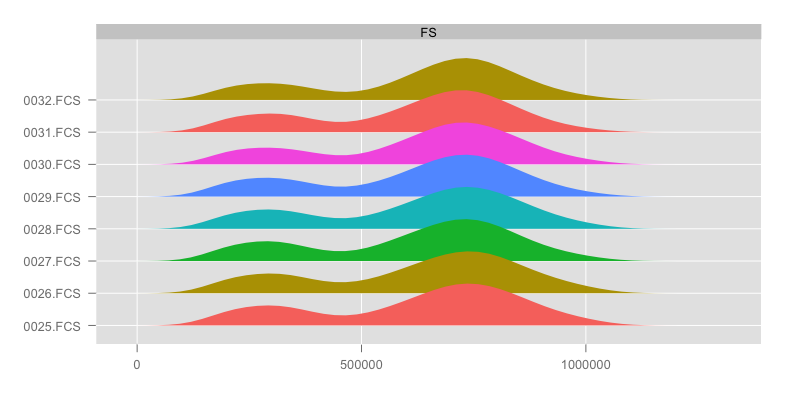
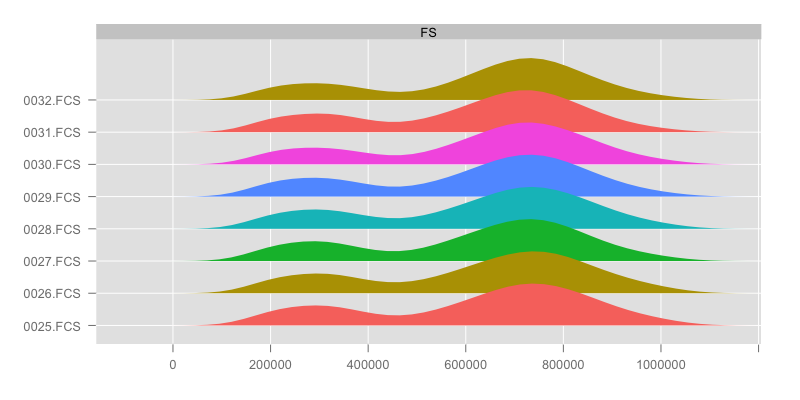
Ajouter des explications pour l'exploration des données

diff --git a/README.md b/README.md
@@ -593,7 +593,8 @@ Vérifiez que vous avez bel et bien la dernière version de R à partir de la co
 Vous pouvez obtenir la dernière version de R ici: https://www.r-project.org/
 
 #### Installation de Bioconductor
-Pour accéder aux librairies de cytométrie en flux, il faut d'abord installer Bioconductor.
+Pour accéder aux librairies de cytométrie en flux, il faut d'abord installer Bioconductor. Pour plus d'infos, voir: https://www.bioconductor.org/install/
+
 Dans la console de R, tappez:
 
 `> setRepositories()`
@@ -607,10 +608,14 @@ Vous pouvez maintenant accéder aux librairies de Bioconductor (sauf flowQ qui n
 à partir de R ou de RStudio!
 
 #### Installation de flowStats
+Voir la documentation: https://www.bioconductor.org/packages/release/bioc/html/flowStats.html
+
 flowStats peut vous donner de la misère avec rgl (un dependency) si votre version de X11 n'est pas à jour.
 Vous pouvez télécharger la dernière vesion de X11 pour Mac ici: http://www.xquartz.org/
 
 #### Installation de flowQ
+Voir la documentation: https://www.bioconductor.org/packages/release/bioc/html/flowQ.html
+
 Attention! flowQ dépend de ImageMagick, que vous pouvez installer à partir des binaries suivants:
 * Mac: http://www.imagemagick.org/script/binary-releases.php#macosx
 * Win: http://www.imagemagick.org/script/binary-releases.php#windows
@@ -634,6 +639,13 @@ une erreur, ImageMagick n'est pas bien installé.
 
 Sur Windows, bonne chance!
 
+#### À propos des autres librairies de base
+Consultez la documentation officielle pour les autres librairies de base pour la cytométrie en flux:
+* [flowCore](http://bioconductor.org/packages/release/bioc/html/flowCore.html) (permet la manipulation de données de cytométrie en flux)
+* [flowViz](http://bioconductor.org/packages/release/bioc/html/flowViz.html) (permet la visualisation des données de flowCore)
+* [flowClust](http://bioconductor.org/packages/release/bioc/html/flowClust.html) (permet le clustering des données de flowCore)
+* [openCyto](http://bioconductor.org/packages/release/bioc/html/openCyto.html) (framework d'analyses automatisées, qui fonctionne avec toutes les autres librairies)
+
 #### Visualisation
 
 ```
@@ -647,7 +659,7 @@ library(ggplot2)
 
 setwd(file.path(PROJHOME, "data"))
 
-# Fetch data
+# Choisir les fichiers .FCS qu'on veut analyser et mettre leur path dans un vecteur de strings
 pt4_fclist <- c("4 Normal/0025.FCS",
                 "4 Normal/0026.FCS",
                 "4 Normal/0027.FCS",
@@ -656,9 +668,9 @@ pt4_fclist <- c("4 Normal/0025.FCS",
                 "4 Normal/0030.FCS",
                 "4 Normal/0031.FCS",
                 "4 Normal/0032.FCS")
-pt5_fclist <- c("5 AML/0033.FCS",
-                "5 AML/0034.FCS",
-                "5 AML/0035.FCS",
+pt5_fclist <- c("5 AML/0033.FCS",      # OK bon oui ici on triche parce qu'on sait quels patients sont
+                "5 AML/0034.FCS",      # en santé et lesquels ont reçu un diagnostique de AML, mais la
+                "5 AML/0035.FCS",      # démo reste intéressante!
                 "5 AML/0036.FCS",
                 "5 AML/0037.FCS",
                 "5 AML/0038.FCS",
@@ -668,19 +680,189 @@ pt5_fclist <- c("5 AML/0033.FCS",
 # À l'aide de la librairie flowCore, générer des objets de type 'flowSet' à partir des données brutes
 pt4_fs <- read.flowSet(pt4_fclist, dataset=2, transformation=FALSE, alter.names=TRUE)
 pt5_fs <- read.flowSet(pt5_fclist, dataset=2, transformation=FALSE, alter.names=TRUE)
+```
 
+Le format .FCS définit une manière standard de représenter les données, mais la structure précise des données de cytométrie en flux varie d'un appareil à un autre (par exemple certains appareils appellent le FSC 'FS' et le SSC 'SS' et les appareils n'ont pas toujours les mêmes détecteurs de fluorescence).
+
+On peut donc vérifier avec la console à quoi ressemblent nos données:
+
+```
+> pt4_fs
+
+A flowSet with 8 experiments.
+
+  column names:
+  FS SS FL1 FL2 FL3 FL4 FL5 TIME
+
+> pt4_fs[1]
+
+A flowSet with 1 experiments.
+
+  column names:
+  FS SS FL1 FL2 FL3 FL4 FL5 TIME
+
+> pt4_fs[[1]]
+
+flowFrame object '0025.FCS'
+with 30000 cells and 8 observables:
+    name desc   range minRange maxRange
+$P1   FS <NA> 1048576        0  1048575
+$P2   SS <NA> 1048576        0  1048575
+$P3  FL1 <NA> 1048576        0  1048575
+$P4  FL2 <NA> 1048576        0  1048575
+$P5  FL3 <NA> 1048576        0  1048575
+$P6  FL4 <NA> 1048576        0  1048575
+$P7  FL5 <NA> 1048576        0  1048575
+$P8 TIME <NA>    1024        0     1023
+61 keywords are stored in the 'description' slot
+
+> # Le minRange est de 0... Allons voir la valeur minimale réelle, pour le FS par exemple.
+> head(sort(as.numeric(exprs(pt4_fs[[1]][,1])[,1])), 1)
+
+[1] 152224
+
+> # Le maxRange est de 1048575... Allons voir quelle est la valeur maximale réelle, pour le FS par exemple.
+> tail(sort(as.numeric(exprs(pt4_fs[[1]][,1])[,1])), 1)
+
+[1] 1048544
+
+```
+
+Bon, maintenant qu'on sait qu'est-ce que nos fichiers contiennent on peut continuer!
+
+```
+# Définir les channels d'intérêt
 channelList <- c("FS", "SS", "FL1", "FL2", "FL3", "FL4", "FL5")
+```
 
-# Truncate extreme values
+Une des premières étapes concerne la sanitization des données (et c'est un peu particulier aux techniques d'analyse de cytométrie en flux). On voit que pour tous les channels, la valeur minimum est de 0, et que la valeur maximale est de 1048544. On veut s'assurer que si on a des mesures négatives (ce qui n'est pas le cas ici), on en prenne compte dans l'analyse.
+
+Certains appareils plafonnent les mesures (aucun appareil de mesure n'a un dynamic range infini) à une valeur constante. Si il y a plafonnement, on s'attend à retrouver la plus grande valeur de mesure un grand nombre de fois. Sinon, elle ne se retrouvera sans doute qu'une fois dans le jeu de données. Regardons:
+
+```
+
+> tail(sort(as.numeric(exprs(pt4_fs[[1]][,1])[,1])), 1000)
+
+   [1] 1043488 1043488 1043648 1043776 1043968 1044736 1044896 1044992 1045056 1045344 1045440 1045696
+  [13] 1046496 1046528 1046528 1046560 1046560 1046784 1046816 1046880 1046880 1046880 1047008 1047040
+  [25] 1047040 1047648 1047648 1047744 1047840 1048032 1048096 1048128 1048160 1048224 1048352 1048544
+  [37] 1048544 1048544 1048544 1048544 1048544 1048544 1048544 1048544 1048544 1048544 1048544 1048544
+  [49] 1048544 1048544 1048544 1048544 1048544 1048544 1048544 1048544 1048544 1048544 1048544 1048544
+  [61] 1048544 1048544 1048544 1048544 1048544 1048544 1048544 1048544 1048544 1048544 1048544 1048544
+  [73] 1048544 1048544 1048544 1048544 1048544 1048544 1048544 1048544 1048544 1048544 1048544 1048544
+  [85] 1048544 1048544 1048544 1048544 1048544 1048544 1048544 1048544 1048544 1048544 1048544 1048544
+  [97] 1048544 1048544 1048544 1048544 1048544 1048544 1048544 1048544 1048544 1048544 1048544 1048544
+ [109] 1048544 1048544 1048544 1048544 1048544 1048544 1048544 1048544 1048544 1048544 1048544 1048544
+ [121] 1048544 1048544 1048544 1048544 1048544 1048544 1048544 1048544 1048544 1048544 1048544 1048544
+ [133] 1048544 1048544 1048544 1048544 1048544 1048544 1048544 1048544 1048544 1048544 1048544 1048544
+ [145] 1048544 1048544 1048544 1048544 1048544 1048544 1048544 1048544 1048544 1048544 1048544 1048544
+ [157] 1048544 1048544 1048544 1048544 1048544 1048544 1048544 1048544 1048544 1048544 1048544 1048544
+ [169] 1048544 1048544 1048544 1048544 1048544 1048544 1048544 1048544 1048544 1048544 1048544 1048544
+ [181] 1048544 1048544 1048544 1048544 1048544 1048544 1048544 1048544 1048544 1048544 1048544 1048544
+ [193] 1048544 1048544 1048544 1048544 1048544 1048544 1048544 1048544 1048544 1048544 1048544 1048544
+ [205] 1048544 1048544 1048544 1048544 1048544 1048544 1048544 1048544 1048544 1048544 1048544 1048544
+ [217] 1048544 1048544 1048544 1048544 1048544 1048544 1048544 1048544 1048544 1048544 1048544 1048544
+ [229] 1048544 1048544 1048544 1048544 1048544 1048544 1048544 1048544 1048544 1048544 1048544 1048544
+ [241] 1048544 1048544 1048544 1048544 1048544 1048544 1048544 1048544 1048544 1048544 1048544 1048544
+ [253] 1048544 1048544 1048544 1048544 1048544 1048544 1048544 1048544 1048544 1048544 1048544 1048544
+ [265] 1048544 1048544 1048544 1048544 1048544 1048544 1048544 1048544 1048544 1048544 1048544 1048544
+ [277] 1048544 1048544 1048544 1048544 1048544 1048544 1048544 1048544 1048544 1048544 1048544 1048544
+ [289] 1048544 1048544 1048544 1048544 1048544 1048544 1048544 1048544 1048544 1048544 1048544 1048544
+ [301] 1048544 1048544 1048544 1048544 1048544 1048544 1048544 1048544 1048544 1048544 1048544 1048544
+ [313] 1048544 1048544 1048544 1048544 1048544 1048544 1048544 1048544 1048544 1048544 1048544 1048544
+ [325] 1048544 1048544 1048544 1048544 1048544 1048544 1048544 1048544 1048544 1048544 1048544 1048544
+ [337] 1048544 1048544 1048544 1048544 1048544 1048544 1048544 1048544 1048544 1048544 1048544 1048544
+ [349] 1048544 1048544 1048544 1048544 1048544 1048544 1048544 1048544 1048544 1048544 1048544 1048544
+ [361] 1048544 1048544 1048544 1048544 1048544 1048544 1048544 1048544 1048544 1048544 1048544 1048544
+ [373] 1048544 1048544 1048544 1048544 1048544 1048544 1048544 1048544 1048544 1048544 1048544 1048544
+ [385] 1048544 1048544 1048544 1048544 1048544 1048544 1048544 1048544 1048544 1048544 1048544 1048544
+ [397] 1048544 1048544 1048544 1048544 1048544 1048544 1048544 1048544 1048544 1048544 1048544 1048544
+ [409] 1048544 1048544 1048544 1048544 1048544 1048544 1048544 1048544 1048544 1048544 1048544 1048544
+ [421] 1048544 1048544 1048544 1048544 1048544 1048544 1048544 1048544 1048544 1048544 1048544 1048544
+ [433] 1048544 1048544 1048544 1048544 1048544 1048544 1048544 1048544 1048544 1048544 1048544 1048544
+ [445] 1048544 1048544 1048544 1048544 1048544 1048544 1048544 1048544 1048544 1048544 1048544 1048544
+ [457] 1048544 1048544 1048544 1048544 1048544 1048544 1048544 1048544 1048544 1048544 1048544 1048544
+ [469] 1048544 1048544 1048544 1048544 1048544 1048544 1048544 1048544 1048544 1048544 1048544 1048544
+ [481] 1048544 1048544 1048544 1048544 1048544 1048544 1048544 1048544 1048544 1048544 1048544 1048544
+ [493] 1048544 1048544 1048544 1048544 1048544 1048544 1048544 1048544 1048544 1048544 1048544 1048544
+ [505] 1048544 1048544 1048544 1048544 1048544 1048544 1048544 1048544 1048544 1048544 1048544 1048544
+ [517] 1048544 1048544 1048544 1048544 1048544 1048544 1048544 1048544 1048544 1048544 1048544 1048544
+ [529] 1048544 1048544 1048544 1048544 1048544 1048544 1048544 1048544 1048544 1048544 1048544 1048544
+ [541] 1048544 1048544 1048544 1048544 1048544 1048544 1048544 1048544 1048544 1048544 1048544 1048544
+ [553] 1048544 1048544 1048544 1048544 1048544 1048544 1048544 1048544 1048544 1048544 1048544 1048544
+ [565] 1048544 1048544 1048544 1048544 1048544 1048544 1048544 1048544 1048544 1048544 1048544 1048544
+ [577] 1048544 1048544 1048544 1048544 1048544 1048544 1048544 1048544 1048544 1048544 1048544 1048544
+ [589] 1048544 1048544 1048544 1048544 1048544 1048544 1048544 1048544 1048544 1048544 1048544 1048544
+ [601] 1048544 1048544 1048544 1048544 1048544 1048544 1048544 1048544 1048544 1048544 1048544 1048544
+ [613] 1048544 1048544 1048544 1048544 1048544 1048544 1048544 1048544 1048544 1048544 1048544 1048544
+ [625] 1048544 1048544 1048544 1048544 1048544 1048544 1048544 1048544 1048544 1048544 1048544 1048544
+ [637] 1048544 1048544 1048544 1048544 1048544 1048544 1048544 1048544 1048544 1048544 1048544 1048544
+ [649] 1048544 1048544 1048544 1048544 1048544 1048544 1048544 1048544 1048544 1048544 1048544 1048544
+ [661] 1048544 1048544 1048544 1048544 1048544 1048544 1048544 1048544 1048544 1048544 1048544 1048544
+ [673] 1048544 1048544 1048544 1048544 1048544 1048544 1048544 1048544 1048544 1048544 1048544 1048544
+ [685] 1048544 1048544 1048544 1048544 1048544 1048544 1048544 1048544 1048544 1048544 1048544 1048544
+ [697] 1048544 1048544 1048544 1048544 1048544 1048544 1048544 1048544 1048544 1048544 1048544 1048544
+ [709] 1048544 1048544 1048544 1048544 1048544 1048544 1048544 1048544 1048544 1048544 1048544 1048544
+ [721] 1048544 1048544 1048544 1048544 1048544 1048544 1048544 1048544 1048544 1048544 1048544 1048544
+ [733] 1048544 1048544 1048544 1048544 1048544 1048544 1048544 1048544 1048544 1048544 1048544 1048544
+ [745] 1048544 1048544 1048544 1048544 1048544 1048544 1048544 1048544 1048544 1048544 1048544 1048544
+ [757] 1048544 1048544 1048544 1048544 1048544 1048544 1048544 1048544 1048544 1048544 1048544 1048544
+ [769] 1048544 1048544 1048544 1048544 1048544 1048544 1048544 1048544 1048544 1048544 1048544 1048544
+ [781] 1048544 1048544 1048544 1048544 1048544 1048544 1048544 1048544 1048544 1048544 1048544 1048544
+ [793] 1048544 1048544 1048544 1048544 1048544 1048544 1048544 1048544 1048544 1048544 1048544 1048544
+ [805] 1048544 1048544 1048544 1048544 1048544 1048544 1048544 1048544 1048544 1048544 1048544 1048544
+ [817] 1048544 1048544 1048544 1048544 1048544 1048544 1048544 1048544 1048544 1048544 1048544 1048544
+ [829] 1048544 1048544 1048544 1048544 1048544 1048544 1048544 1048544 1048544 1048544 1048544 1048544
+ [841] 1048544 1048544 1048544 1048544 1048544 1048544 1048544 1048544 1048544 1048544 1048544 1048544
+ [853] 1048544 1048544 1048544 1048544 1048544 1048544 1048544 1048544 1048544 1048544 1048544 1048544
+ [865] 1048544 1048544 1048544 1048544 1048544 1048544 1048544 1048544 1048544 1048544 1048544 1048544
+ [877] 1048544 1048544 1048544 1048544 1048544 1048544 1048544 1048544 1048544 1048544 1048544 1048544
+ [889] 1048544 1048544 1048544 1048544 1048544 1048544 1048544 1048544 1048544 1048544 1048544 1048544
+ [901] 1048544 1048544 1048544 1048544 1048544 1048544 1048544 1048544 1048544 1048544 1048544 1048544
+ [913] 1048544 1048544 1048544 1048544 1048544 1048544 1048544 1048544 1048544 1048544 1048544 1048544
+ [925] 1048544 1048544 1048544 1048544 1048544 1048544 1048544 1048544 1048544 1048544 1048544 1048544
+ [937] 1048544 1048544 1048544 1048544 1048544 1048544 1048544 1048544 1048544 1048544 1048544 1048544
+ [949] 1048544 1048544 1048544 1048544 1048544 1048544 1048544 1048544 1048544 1048544 1048544 1048544
+ [961] 1048544 1048544 1048544 1048544 1048544 1048544 1048544 1048544 1048544 1048544 1048544 1048544
+ [973] 1048544 1048544 1048544 1048544 1048544 1048544 1048544 1048544 1048544 1048544 1048544 1048544
+ [985] 1048544 1048544 1048544 1048544 1048544 1048544 1048544 1048544 1048544 1048544 1048544 1048544
+ [997] 1048544 1048544 1048544 1048544
+
+```
+
+Wow ok, il y a beaucoup de données tronquées. Si c'était un problème, il faudrait probablement optimiser le protocole en utilisant des concentrations moins importantes de marqueurs fluorescents (pour les FL), ou en ajoutant un filtre devant les détecteurs (pour les FL, SSC et FSC). On va juste les enlever ici parce que les valeurs extrêmes n'affectent pas vraiment la suite des analyses.
+
+```
+# Éliminer les valeurs tronquées (on pourrait faire de même avec les autres channels)
 largest_FS <- tail(sort(as.numeric(exprs(pt4_fs[[1]][,1])[,1])), 1)
 filter_result <- filter(pt4_fs, rectangleGate("FS" = c(-Inf, largest_FS)))
 pt4_fs_trunc <- Subset(pt4_fs, filter_result)
-
-# Play with density plot to find optimal values for logicle transform
-densityplot(~`SS`, pt4_fs_trunc, xlim=c(0,50000))
 ```
 
+Les données de cytométrie en flux doivent être transformées pour être utiles, et on sait que les transformations logarithmiques sont suboptimales dans plusieurs situations: on préfère de loin utiliser la transformation biexponentielle (aussi appellée 'logicle', ce n'est pas un typo). C'est une transformation à 4 paramètres, et il va falloir regarder nos données pour choisir des paramètres qui font du sens.
+
+```
+# Voyons la distribution du FS et du SS
+densityplot(~`FS`, pt4_fs_trunc)
+densityplot(~`SS`, pt4_fs_trunc)
+```
+Alors pour le FSC on a quelque chose qui ressemble à ça:
 ![FS pour tous les jeux de données][FC_1]
+
+Et pour le SSC... ouppelaye!
+![FS pour tous les jeux de données][FC_1.1]
+
+Changeons l'axe pour mieux voir.
+
+```
+# Voyons la distribution du SS
+densityplot(~`SS`, pt4_fs_trunc, xlim=c(-5000,60000))
+```
+
+Voilà qui est plus facile à visualiser
+![FS pour tous les jeux de données][FC_1.1]
+
+On dirait que la valeur minimale est plus petite que 0, mais en réalité c'est un artefact de lissage. C'est pas important de visualiser la distribution exacte ici, ce résultat suffit.
 
 ```
 #lgcl <- estimateLogicle(pt4_fs[[2]], channels=channelList)
